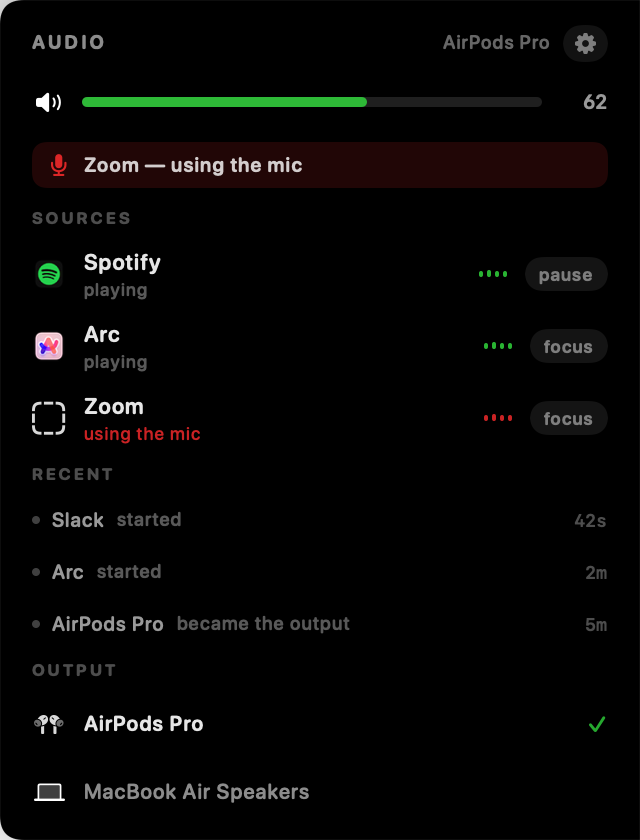
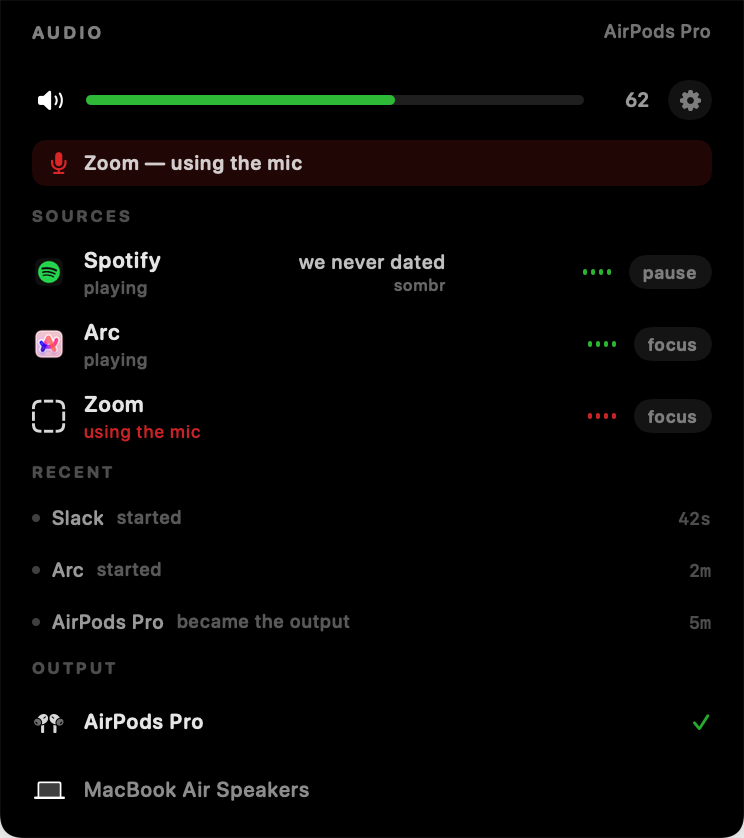
Show what Spotify is playing, not just that Spotify is playing
The pill said "Spotify · playing", which is the least interesting fact available:
Spotify hands over the track name, artist and an artwork URL in the same Apple
event that reports playback state, so it costs nothing extra to ask. A playing
media app now shows its album art in place of the app icon, with the track and
artist where its name and status were; anything else is unchanged. The opened
panel puts the track in the gap between the app and its transport button.

Artwork is downloaded once per URL and held in memory. Apps that are paused or
have nothing to say fall back to the icon and name exactly as before.

diff --git a/Sources/AudioNotch/UI/AudioRootView.swift b/Sources/AudioNotch/UI/AudioRootView.swift
@@ -15,16 +15,26 @@ struct AudioRootView: View {
         Layout(placement: placement,
                rows: snapshot.sources.count + snapshot.devices.count,
                active: snapshot.anyPlaying,
-               leadName: snapshot.playing.first?.name ?? snapshot.sources.first?.name ?? "",
-               leadSubtitle: subtitle,
+               leadName: leadTitle,
+               leadSubtitle: leadSubtitle,
                measuredBody: state.panelBodyHeight,
                trailLabel: "\(Int((snapshot.volume * 100).rounded()))%")
     }
 
-    private var subtitle: String {
+    private var lead: AudioSource? { snapshot.playing.first ?? snapshot.sources.first }
+
+    /// A playing media app shows what it is playing; everything else shows its name.
+    private var leadTitle: String {
+        guard let lead else { return "" }
+        if let track = lead.track, lead.reallyPlaying { return String(track.title.prefix(24)) }
+        return lead.name
+    }
+
+    private var leadSubtitle: String {
+        guard let lead else { return "no output" }
+        if let track = lead.track, lead.reallyPlaying { return String(track.artist.prefix(24)) }
         if snapshot.playing.count > 1 { return "+\(snapshot.playing.count - 1) more" }
-        if let device = snapshot.currentDevice { return device.name }
-        return "no output"
+        return lead.reallyPlaying ? "playing" : "paused"
     }
 
     private var currentSize: CGSize { layout.size(for: state.mode) }
@@ -41,7 +51,9 @@ struct AudioRootView: View {
     private var shell: some View {
         ZStack(alignment: alignment) {
             layer(MiniNub(layout: layout, active: snapshot.anyPlaying), visible: state.mode == .mini)
-            layer(PillContent(snapshot: snapshot, layout: layout), visible: state.mode == .pill)
+            layer(PillContent(snapshot: snapshot, layout: layout,
+                               artworkFor: { [store] in store.artwork(for: $0) }),
+                  visible: state.mode == .pill)
             layer(Panel(store: store, layout: layout, onHitTargets: onHitTargets,
                         onHeight: reportHeight),
                   visible: state.mode == .expanded)
@@ -125,10 +137,17 @@ struct LevelBars: View {
 private struct AppIcon: View {
     var source: AudioSource
     var size: CGFloat = 16
+    /// Album art when the app is playing something and has handed it over.
+    var artwork: NSImage?
 
     var body: some View {
         Group {
-            if let icon = source.icon {
+            if let artwork {
+                Image(nsImage: artwork)
+                    .resizable()
+                    .interpolation(.high)
+                    .clipShape(RoundedRectangle(cornerRadius: size * 0.22, style: .continuous))
+            } else if let icon = source.icon {
                 Image(nsImage: icon).resizable().interpolation(.high)
             } else {
                 Image(systemName: "app.dashed").resizable()
@@ -166,8 +185,10 @@ private struct MiniNub: View {
 private struct PillContent: View {
     var snapshot: AudioSnapshot
     var layout: Layout
+    var artworkFor: (String?) -> NSImage?
 
     private var lead: AudioSource? { snapshot.playing.first ?? snapshot.sources.first }
+    private var leadTrack: TrackInfo? { (lead?.reallyPlaying ?? false) ? lead?.track : nil }
 
     var body: some View {
         let size = layout.size(for: .pill)
@@ -183,13 +204,13 @@ private struct PillContent: View {
     private var leading: some View {
         HStack(spacing: 6) {
             if let lead {
-                AppIcon(source: lead)
+                AppIcon(source: lead, artwork: artworkFor(leadTrack?.artworkURL))
                 VStack(alignment: .leading, spacing: 0) {
-                    Text(lead.name)
+                    Text(leadTrack.map { String($0.title.prefix(24)) } ?? lead.name)
                         .font(.system(size: 9.5, weight: .semibold, design: .rounded))
                         .foregroundStyle(.white.opacity(0.9))
                         .lineLimit(1)
-                    Text(snapshot.playing.count > 1 ? "+\(snapshot.playing.count - 1) more" : (lead.reallyPlaying ? "playing" : "paused"))
+                    Text(subtitleText(for: lead))
                         .font(.system(size: 8.5, weight: .medium, design: .rounded))
                         .foregroundStyle(.white.opacity(0.45))
                         .lineLimit(1)
@@ -205,6 +226,12 @@ private struct PillContent: View {
                     .foregroundStyle(.white.opacity(0.35))
             }
         }
+    }
+
+    private func subtitleText(for lead: AudioSource) -> String {
+        if let track = leadTrack, !track.artist.isEmpty { return String(track.artist.prefix(24)) }
+        if snapshot.playing.count > 1 { return "+\(snapshot.playing.count - 1) more" }
+        return lead.reallyPlaying ? "playing" : "paused"
     }
 
     private var trailing: some View {
@@ -475,8 +502,9 @@ private struct Panel: View {
     }
 
     private func sourceRow(_ source: AudioSource) -> some View {
-        HStack(spacing: 9) {
-            AppIcon(source: source, size: 17)
+        let track = source.reallyPlaying ? source.track : nil
+        return HStack(spacing: 9) {
+            AppIcon(source: source, size: 17, artwork: store.artwork(for: track?.artworkURL))
             VStack(alignment: .leading, spacing: 1) {
                 Text(source.name)
                     .font(.system(size: 11, weight: .semibold, design: .rounded))
@@ -486,6 +514,23 @@ private struct Panel: View {
                     .font(.system(size: 9, weight: .medium, design: .rounded))
                     .foregroundStyle(source.isRecording ? .red.opacity(0.8) : .white.opacity(0.35))
             }
+            if let track {
+                Spacer(minLength: 8)
+                VStack(alignment: .trailing, spacing: 0) {
+                    Text(track.title)
+                        .font(.system(size: 10, weight: .medium, design: .rounded))
+                        .foregroundStyle(.white.opacity(0.75))
+                    if !track.artist.isEmpty {
+                        Text(track.artist)
+                            .font(.system(size: 8.5, weight: .medium, design: .rounded))
+                            .foregroundStyle(.white.opacity(0.4))
+                    }
+                }
+                .lineLimit(1)
+                .truncationMode(.tail)
+                .layoutPriority(-1)
+            }
+
             Spacer(minLength: 4)
             LevelBars(tint: source.isRecording ? .red.opacity(0.8) : .green.opacity(0.85),
                       animating: source.isPlaying || source.isRecording,

diff --git a/Sources/AudioNotch/Providers/NowPlaying.swift b/Sources/AudioNotch/Providers/NowPlaying.swift
@@ -1,0 +1,44 @@
+import AppKit
+
+/// What a media app is playing right now.
+struct TrackInfo: Equatable {
+    var title: String
+    var artist: String
+    var artworkURL: String?
+
+    var oneLine: String { artist.isEmpty ? title : "\(title) — \(artist)" }
+}
+
+/// Fetches track details and album art for the apps that expose them.
+///
+/// Spotify hands over the name, artist and an artwork URL in one Apple event, so a
+/// single call per poll covers everything. Artwork is downloaded once per URL and
+/// kept in memory — album art changes far less often than anything else on screen.
+final class NowPlaying: @unchecked Sendable {
+    private let lock = NSLock()
+    private var artwork: [String: NSImage] = [:]
+    private var pending: Set<String> = []
+
+    /// Cached album art, kicking off a download the first time a URL is seen.
+    func image(for url: String?) -> NSImage? {
+        guard let url, !url.isEmpty else { return nil }
+        lock.lock()
+        if let cached = artwork[url] { lock.unlock(); return cached }
+        let alreadyFetching = pending.contains(url)
+        if !alreadyFetching { pending.insert(url) }
+        lock.unlock()
+        guard !alreadyFetching else { return nil }
+
+        URLSession.shared.dataTask(with: URL(string: url)!) { [weak self] data, _, _ in
+            guard let self else { return }
+            let image = data.flatMap(NSImage.init(data:))
+            self.lock.lock()
+            if let image { self.artwork[url] = image }
+            self.pending.remove(url)
+            // Album art is small, but a long session should not accumulate forever.
+            if self.artwork.count > 40 { self.artwork.removeAll() }
+            self.lock.unlock()
+        }.resume()
+        return nil
+    }
+}

diff --git a/Sources/AudioNotch/Providers/TransportProbe.swift b/Sources/AudioNotch/Providers/TransportProbe.swift
@@ -12,6 +12,7 @@ import AppKit
 final class TransportProbe: @unchecked Sendable {
     private let lock = NSLock()
     private var states: [Transport: Bool] = [:]
+    private var tracks: [Transport: TrackInfo] = [:]
     private var lastPoll = Date.distantPast
     private let queue = DispatchQueue(label: "com.abhaykashyap.audionotch.transport", qos: .utility)
     private var polling = false
@@ -22,6 +23,12 @@ final class TransportProbe: @unchecked Sendable {
     func isPlaying(_ transport: Transport) -> Bool? {
         lock.lock(); defer { lock.unlock() }
         return states[transport]
+    }
+
+    /// What the app is playing, when it tells us.
+    func track(_ transport: Transport) -> TrackInfo? {
+        lock.lock(); defer { lock.unlock() }
+        return tracks[transport]
     }
 
     /// Records a state we were told about, rather than one we asked for.
@@ -45,11 +52,15 @@ final class TransportProbe: @unchecked Sendable {
         queue.async { [weak self] in
             guard let self else { return }
             var fresh: [Transport: Bool] = [:]
+            var freshTracks: [Transport: TrackInfo] = [:]
             for transport in running {
-                if let playing = AudioControls.isPlaying(transport) { fresh[transport] = playing }
+                guard let answer = AudioControls.nowPlaying(transport) else { continue }
+                fresh[transport] = answer.playing
+                if let track = answer.track { freshTracks[transport] = track }
             }
             self.lock.lock()
             self.states = fresh
+            self.tracks = freshTracks
             self.lastPoll = Date()
             self.polling = false
             self.lock.unlock()

diff --git a/Sources/AudioNotch/Providers/AudioControls.swift b/Sources/AudioNotch/Providers/AudioControls.swift
@@ -83,6 +83,29 @@ enum AudioControls {
         return value.contains("playing")
     }
 
+    /// Playback state and the current track in a single Apple event, since asking
+    /// twice doubles the cost of something polled every second.
+    static func nowPlaying(_ transport: Transport) -> (playing: Bool, track: TrackInfo?)? {
+        let script = """
+        tell application "\(transport.appName)"
+            set s to player state as string
+            if s is "playing" or s is "paused" then
+                set t to current track
+                return s & "\t" & (name of t) & "\t" & (artist of t) & "\t" & (artwork url of t)
+            end if
+            return s
+        end tell
+        """
+        let result = execute(script)
+        guard result.ok, let value = result.value else { return nil }
+        let parts = value.components(separatedBy: "\t")
+        let playing = parts.first?.contains("playing") ?? false
+        guard parts.count >= 3 else { return (playing, nil) }
+        let track = TrackInfo(title: parts[1], artist: parts[2],
+                              artworkURL: parts.count > 3 ? parts[3] : nil)
+        return (playing, track.title.isEmpty ? nil : track)
+    }
+
     /// Everything else gets brought to the front so you can deal with it yourself.
     static func focus(pid: pid_t) {
         NSRunningApplication(processIdentifier: pid)?.activate(options: [.activateAllWindows])

diff --git a/Sources/AudioNotch/Providers/AudioMonitor.swift b/Sources/AudioNotch/Providers/AudioMonitor.swift
@@ -22,9 +22,13 @@ final class AudioMonitor: @unchecked Sendable {
     private let queue = DispatchQueue(label: "com.abhaykashyap.audionotch.coreaudio")
     private let tapEngine = AudioTapEngine()
     private let transportProbe = TransportProbe()
+    private let nowPlaying = NowPlaying()
 
     /// Drops the cached playback answer so the next snapshot re-asks immediately.
     func invalidateTransport() { transportProbe.invalidate() }
+
+    /// Album art for a track, downloaded once per URL.
+    func artwork(for url: String?) -> NSImage? { nowPlaying.image(for: url) }
 
     /// Live 0...1 levels per app, empty when tapping is unavailable.
     func levels() -> [pid_t: Float] { tapEngine.levels() }
@@ -130,7 +134,10 @@ final class AudioMonitor: @unchecked Sendable {
         let all = (Array(byOwner.values) + loose).map { source -> AudioSource in
             var copy = source
             copy.level = levels[source.id] ?? 0
-            if let transport = source.transport { copy.transportPlaying = transportProbe.isPlaying(transport) }
+            if let transport = source.transport {
+                copy.transportPlaying = transportProbe.isPlaying(transport)
+                copy.track = transportProbe.track(transport)
+            }
             return copy
         }
         return all.sorted { lhs, rhs in

diff --git a/Sources/AudioNotch/Model/AudioStore.swift b/Sources/AudioNotch/Model/AudioStore.swift
@@ -47,6 +47,9 @@ final class AudioStore: ObservableObject {
         if updated != snapshot { snapshot = updated }
     }
 
+    /// Album art for a track, once it has been fetched.
+    func artwork(for url: String?) -> NSImage? { monitor.artwork(for: url) }
+
     func reload() {
         let fresh = monitor.snapshot()
         guard fresh != snapshot else { return }
@@ -58,7 +61,9 @@ final class AudioStore: ObservableObject {
         snapshot = AudioSnapshot(
             sources: [
                 AudioSource(id: 501, name: "Spotify", bundleID: "com.spotify.client",
-                            ownerBundleID: "com.spotify.client", isPlaying: true, isRecording: false),
+                            ownerBundleID: "com.spotify.client", isPlaying: true, isRecording: false,
+                            transportPlaying: true,
+                            track: TrackInfo(title: "we never dated", artist: "sombr", artworkURL: nil)),
                 AudioSource(id: 502, name: "Arc", bundleID: "company.thebrowser.Browser",
                             ownerBundleID: "company.thebrowser.Browser", isPlaying: true, isRecording: false),
                 AudioSource(id: 503, name: "Zoom", bundleID: "us.zoom.xos",

diff --git a/Sources/AudioNotch/Model/AudioModels.swift b/Sources/AudioNotch/Model/AudioModels.swift
@@ -16,6 +16,8 @@ struct AudioSource: Identifiable, Equatable {
     var level: Float = 0
     /// What a scriptable app says about itself, which beats the hardware's view.
     var transportPlaying: Bool?
+    /// The track a media app is playing, when it will say.
+    var track: TrackInfo?
 
     var icon: NSImage? {
         guard let bundle = ownerBundleID ?? bundleID,
@@ -40,7 +42,7 @@ struct AudioSource: Identifiable, Equatable {
     static func == (a: AudioSource, b: AudioSource) -> Bool {
         a.id == b.id && a.isPlaying == b.isPlaying && a.isRecording == b.isRecording
             && a.name == b.name && a.transportPlaying == b.transportPlaying
-            && abs(a.level - b.level) < 0.02
+            && a.track == b.track && abs(a.level - b.level) < 0.02
     }
 }
 

diff --git a/Sources/AudioNotch/UI/Layout.swift b/Sources/AudioNotch/UI/Layout.swift
@@ -47,7 +47,8 @@ struct Layout: Equatable {
     /// spacing, which measurement of the strings alone does not account for.
     private var leadContent: CGFloat {
         let text = max(Self.width(leadName, 9.5, .semibold), Self.width(leadSubtitle, 8.5, .medium))
-        return 16 + 6 + max(text, 40) + 6
+        // Bars sit after the text when a track is playing, so leave room for them.
+        return 16 + 6 + max(text, 40) + 12 + 6
     }
 
     /// A dot plus a percentage per provider, then the tone bar.
